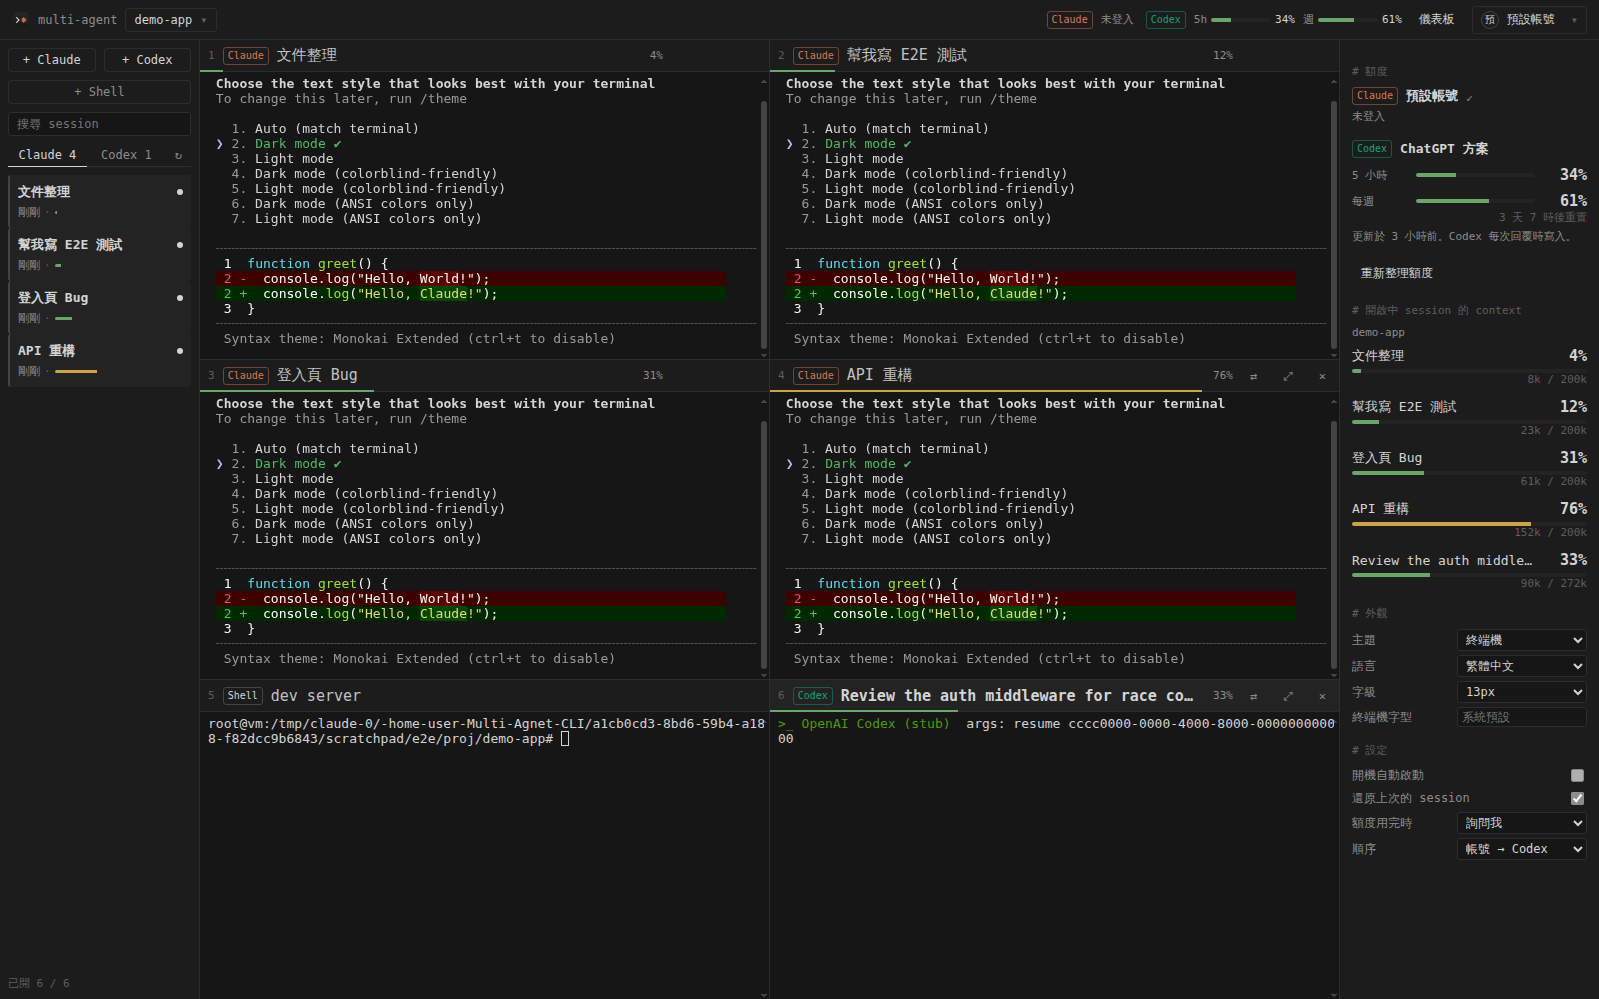
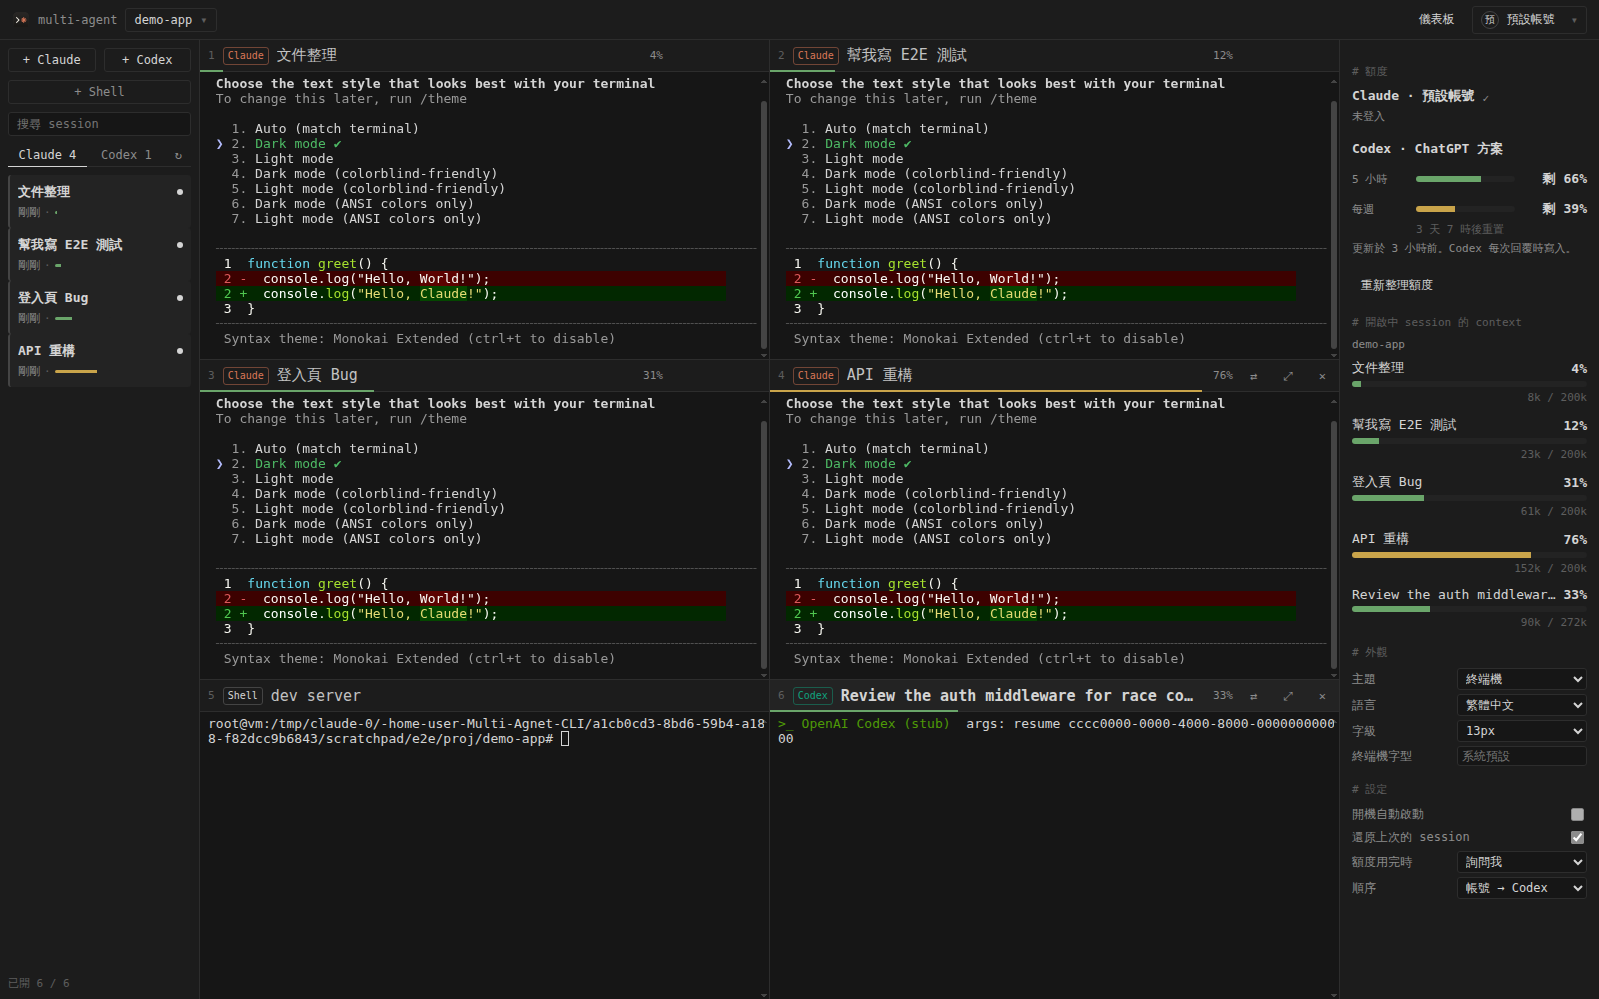
Show remaining quota in the dashboard only, colored by what is left; terminal fonts for CJK
- Remove the usage meters from the top bar; usage lives in the dashboard
- Dashboard rows show remaining quota ('66% left'), bar colored by the
  remaining amount (green >= 50%, yellow 20-50%, red < 20%); Claude/Codex
  headings are plain text instead of brand-colored tags
- Usage rows use a grid so label, bar, value and reset time line up
- Drop Microsoft JhengHei from the font stacks; CJK falls back to monospaced
  fonts (Sarasa Mono TC, Noto Sans Mono CJK TC, MingLiU on Windows)

Claude-Session: https://claude.ai/code/session_01H4MbeqU6uQkmUebYD4LS2x

diff --git a/src/renderer/app.js b/src/renderer/app.js
@@ -109,7 +109,6 @@ function applyLang() {
   if (!S.cwd) $('#projectName').textContent = t('top.project');
   layoutGridIfAny();
   renderSessionList();
-  renderMeters();
   renderDashboard();
 }
 
@@ -861,7 +860,7 @@ function showAccountMenu(anchor) {
         await api.setActiveProfile(p.id);
         await reloadProfiles();
         refreshSessions();
-        renderMeters();
+        renderDashboard();
         toast(t('profile.switched', { name: profileName(p) }), 'ok');
       },
     };
@@ -980,7 +979,6 @@ async function refreshUsage(force = false) {
   } catch {
     return;
   }
-  renderMeters();
   renderDashboard();
   const u = S.usage.claude[S.activeProfile];
   if (u && u.ok && u.fiveHour && u.fiveHour.pct >= 100) {
@@ -1002,12 +1000,6 @@ async function refreshUsage(force = false) {
   }
 }
 
-function meter(label, w) {
-  if (!w || w.pct == null) return '';
-  const tip = `${label} ${w.pct.toFixed(1)}%${fmtReset(w.resetsAt) ? ` · ${t('reset.in', { t: fmtReset(w.resetsAt) })}` : ''}`;
-  return `<div class="meter" title="${esc(tip)}">${label} ${bar(w.pct)}<b>${Math.round(w.pct)}%</b></div>`;
-}
-
 function codexWindows(rl) {
   if (!rl) return [];
   return [rl.primary, rl.secondary].filter(Boolean).map((w) => ({
@@ -1017,25 +1009,17 @@ function codexWindows(rl) {
   }));
 }
 
-function renderMeters() {
-  if (!S.usage) return;
-  const u = S.usage.claude[S.activeProfile];
-  let html = '<div class="meter-group"><span class="tag claude">Claude</span>';
-  html += u && u.ok ? meter(t('usage.5h'), u.fiveHour) + meter(t('usage.week'), u.sevenDay) : `<span class="meter">${esc(u ? t(`usage.reason.${u.reason}`) : t('usage.loading'))}</span>`;
-  html += '</div><div class="meter-group"><span class="tag codex">Codex</span>';
-  const cw = codexWindows(S.usage.codex);
-  html += cw.length ? cw.map((w) => meter(w.label, w)).join('') : `<span class="meter">${esc(t('usage.noData'))}</span>`;
-  html += '</div>';
-  $('#meters').innerHTML = html;
-}
+// 剩餘額度的顏色：剩 50% 以上綠、20–50% 黃、20% 以下紅（跟是哪個工具無關）
+const leftClass = (left) => (left < 20 ? 'bad' : left < 50 ? 'warn' : '');
 
-// 一列額度：標籤、進度條、放大的百分比；重置倒數放在下一行的最弱層級
+// 一列額度（顯示剩餘）：標籤、進度條、剩餘百分比；重置倒數在下一行，對齊進度條
 function usageRow(label, w) {
   if (!w || w.pct == null) return '';
+  const left = Math.max(0, Math.min(100, 100 - w.pct));
   const reset = fmtReset(w.resetsAt);
-  return `<div class="row"><span class="label">${esc(label)}</span>${bar(w.pct)}<span class="val">${Math.round(w.pct)}%</span></div>${
-    reset ? `<div class="reset">${esc(t('reset.in', { t: reset }))}</div>` : ''
-  }`;
+  return `<div class="urow"><span class="label">${esc(label)}</span><div class="bar ${leftClass(left)}"><i style="width:${left}%"></i></div><span class="val">${esc(
+    t('usage.left', { n: Math.round(left) }),
+  )}</span>${reset ? `<span class="reset">${esc(t('reset.in', { t: reset }))}</span>` : ''}</div>`;
 }
 
 function renderDashboard() {
@@ -1043,7 +1027,7 @@ function renderDashboard() {
   let html = '';
   for (const p of S.profiles) {
     const u = S.usage && S.usage.claude[p.id];
-    html += `<div class="dsec"><div class="head"><span class="tag claude">Claude</span><span class="name">${esc(profileName(p))}</span>${p.id === S.activeProfile ? '<span class="sub">✓</span>' : ''}</div>
+    html += `<div class="dsec"><div class="head"><span class="name">Claude · ${esc(profileName(p))}</span>${p.id === S.activeProfile ? '<span class="sub">✓</span>' : ''}</div>
       <div class="sub">${esc((p.account && p.account.email) || t('profile.notLoggedIn'))}${u && u.plan ? ` · ${esc(u.plan)}` : ''}</div>`;
     if (u && u.ok)
       html +=
@@ -1052,7 +1036,7 @@ function renderDashboard() {
     html += '</div>';
   }
   const cw = codexWindows(S.usage && S.usage.codex);
-  html += `<div class="dsec"><div class="head"><span class="tag codex">Codex</span><span class="name">${esc(t('usage.codexPlan'))}</span></div>`;
+  html += `<div class="dsec"><div class="head"><span class="name">Codex · ${esc(t('usage.codexPlan'))}</span></div>`;
   html += cw.length
     ? cw.map((w) => usageRow(w.week ? t('usage.weekLong') : w.label === '5h' ? t('usage.5hLong') : w.label, w)).join('') +
       `<div class="sub">${esc(t('usage.codexAt', { t: S.usage.codex.observedAt ? fmtAgo(S.usage.codex.observedAt) : '–' }))}</div>`
@@ -1214,7 +1198,7 @@ async function boot() {
   setInterval(pollContext, 4000);
   setInterval(refreshSessions, 30_000);
   setInterval(() => refreshUsage(), (S.settings.usageRefreshSec || 120) * 1000);
-  setInterval(renderMeters, 60_000); // 更新重置倒數
+  setInterval(renderDashboard, 60_000); // 更新重置倒數
 }
 
 boot();

diff --git a/src/renderer/styles.css b/src/renderer/styles.css
@@ -14,7 +14,7 @@
   --warn: #b7a67e;
   --bad: #b48686;
   --sel: #383838;
-  --font: ui-monospace, 'SF Mono', Menlo, Consolas, 'Cascadia Mono', 'DejaVu Sans Mono', 'PingFang TC', 'Microsoft JhengHei', monospace;
+  --font: ui-monospace, 'SF Mono', Menlo, 'Cascadia Mono', Consolas, 'DejaVu Sans Mono', 'Noto Sans Mono CJK TC', MingLiU, monospace;
   --radius: 3px;
   /* 三層字級：主要（窗格標題、清單名稱、儀表板數字）、一般（按鈕、設定）、次要（時間、說明） */
   --fs-1: 15px;
@@ -150,28 +150,6 @@ select:focus {
   place-items: center;
   font-size: 10px;
   flex-shrink: 0;
-}
-.meters {
-  display: flex;
-  gap: 12px;
-  align-items: center;
-}
-.meter-group {
-  display: flex;
-  gap: 8px;
-  align-items: center;
-}
-.meter {
-  display: flex;
-  align-items: center;
-  gap: 4px;
-  color: var(--muted);
-  font-size: 11px;
-  white-space: nowrap;
-}
-.meter b {
-  color: var(--text);
-  font-weight: 400;
 }
 .bar {
   width: 60px;
@@ -559,29 +537,38 @@ select:focus {
   font-weight: 600;
   min-width: 0;
 }
-.dsec .row {
-  display: flex;
+/* 額度列：標籤 | 進度條 | 剩餘百分比，重置倒數在第二行對齊進度條 */
+.dsec .urow {
+  display: grid;
+  grid-template-columns: 56px 1fr 64px;
+  column-gap: 8px;
+  row-gap: 4px;
   align-items: center;
-  gap: 8px;
-  margin-top: 8px;
+  margin-top: 12px;
 }
-.dsec .row .label {
-  width: 56px;
+.dsec .urow .label {
   color: var(--muted);
   font-size: var(--fs-3);
 }
-.dsec .row .bar {
-  flex: 1;
+.dsec .urow .bar {
+  width: auto;
+  height: 6px;
+  border-radius: 3px;
 }
-.dsec .val {
-  font-size: var(--fs-1);
+.dsec .urow .val {
+  font-size: var(--fs-name);
   font-weight: 600;
-  min-width: 44px;
   text-align: right;
+  white-space: nowrap;
 }
-.dsec .reset {
+.dsec .urow .reset {
+  grid-column: 2 / 4;
   color: var(--faint);
   font-size: var(--fs-3);
+}
+.dsec .val {
+  font-size: var(--fs-name);
+  font-weight: 600;
   text-align: right;
 }
 .dsec .sub {
@@ -599,6 +586,15 @@ select:focus {
 }
 .ctx-item > .bar {
   width: 100%;
+  height: 6px;
+  border-radius: 3px;
+  margin-top: 4px;
+}
+.ctx-item .reset {
+  margin-top: 4px;
+  color: var(--faint);
+  font-size: var(--fs-3);
+  text-align: right;
 }
 .sub.group {
   margin: 8px 0;

diff --git a/src/renderer/i18n.js b/src/renderer/i18n.js
@@ -130,6 +130,7 @@ const I18N = {
     'usage.codexAt': 'Updated {t}. Codex writes this on every reply.',
     'usage.codexEmpty': 'Shows up after you use Codex once.',
     'usage.refresh': 'Refresh usage',
+    'usage.left': '{n}% left',
     'usage.reason.no-credentials': 'not signed in',
     'usage.reason.token-expired': 'token expired; open any session on this account to refresh it',
     'usage.reason.token-invalid': 'token rejected; sign in again',
@@ -288,6 +289,7 @@ const I18N = {
     'usage.codexAt': '更新於 {t}。Codex 每次回覆時寫入。',
     'usage.codexEmpty': '用過一次 Codex 之後就會出現。',
     'usage.refresh': '重新整理額度',
+    'usage.left': '剩 {n}%',
     'usage.reason.no-credentials': '未登入',
     'usage.reason.token-expired': 'token 過期，在這個帳號開任一個 session 就會更新',
     'usage.reason.token-invalid': 'token 無效，請重新登入',

diff --git a/src/renderer/themes.js b/src/renderer/themes.js
@@ -80,6 +80,12 @@ function terminalFont(platform, custom) {
     win32: ['"Cascadia Mono"', 'Consolas', '"Courier New"'],
     linux: ['"DejaVu Sans Mono"', '"Ubuntu Mono"', '"Liberation Mono"'],
   }[platform] || ['Menlo', 'Consolas', '"DejaVu Sans Mono"'];
-  const cjk = ['"PingFang TC"', '"Microsoft JhengHei"', '"Noto Sans Mono CJK TC"', '"Noto Sans CJK TC"', 'monospace'];
+  // 中文也用等寬的終端機字型：Windows 是主控台用的細明體（MingLiU），不用微軟正黑體
+  const cjk = {
+    darwin: ['"PingFang TC"'],
+    win32: ['"Sarasa Mono TC"', '"Noto Sans Mono CJK TC"', 'MingLiU', '"細明體"'],
+    linux: ['"Noto Sans Mono CJK TC"', '"Sarasa Mono TC"'],
+  }[platform] || [];
+  cjk.push('monospace');
   return [custom && custom.trim() ? `"${custom.trim().replace(/"/g, '')}"` : null, 'ui-monospace', ...byPlatform, ...cjk].filter(Boolean).join(', ');
 }

diff --git a/src/renderer/index.html b/src/renderer/index.html
@@ -12,7 +12,6 @@
       <div class="brand"><img src="../../assets/icon-256.png" alt="" /><span>multi-agent</span></div>
       <button id="projectBtn" class="project-btn"><span id="projectName"></span><span class="caret">▾</span></button>
       <div class="spacer"></div>
-      <div id="meters" class="meters"></div>
       <button id="dashBtn" class="ghost" data-i18n="top.dashboard"></button>
       <button id="accountBtn" class="account-btn"><span class="avatar" id="accountAvatar"></span><span id="accountName"></span><span class="caret">▾</span></button>
     </header>

diff --git a/README.md b/README.md
@@ -14,7 +14,7 @@
 - 每個窗格是真正的終端機（node-pty + xterm.js），跑的就是你平常的 `claude` 和 `codex`。
 - 最多 6 格。版面依視窗長寬比自動排，最後一列不滿時會加寬，不會留空格。
 - 窗格上方顯示 session 名稱、Claude 或 Codex、使用的帳號，以及 context 用量（例如 `76% · 152k / 200k`）。
-- 儀表板顯示每個 Claude 帳號的 5 小時與每週額度、Codex 的 5 小時與每週額度，以及各窗格的 context。
+- 儀表板顯示每個 Claude 帳號與 Codex 的 5 小時、每週剩餘額度（依剩餘量變色：50% 以上綠、20–50% 黃、20% 以下紅），以及各窗格的 context。
 - 多個 Claude 帳號。每個帳號是一個 `CLAUDE_CONFIG_DIR`，session 歷史共用，所以可以換帳號 `--resume` 同一個 session。
 - 額度用完時提供接手選項：換另一個 Claude 帳號續跑，或產生交接文件交給 Codex。
 - 五種主題（Terminal、Graphite、Sand、Mono、Paper），整個介面使用系統終端機的等寬字型。Claude 與 Codex 標籤用它們原本的品牌色。
@@ -77,7 +77,7 @@ npm install
 
 ## 外觀
 
-儀表板的「外觀」可以選主題、字級與終端機字型。字型預設跟系統終端機一樣：macOS 用 SF Mono 或 Menlo，Windows 用 Cascadia Mono 或 Consolas，Linux 用 DejaVu Sans Mono，中文 fallback 到蘋方、微軟正黑體或 Noto Sans Mono CJK。
+儀表板的「外觀」可以選主題、字級與終端機字型。字型預設跟系統終端機一樣：macOS 用 SF Mono 或 Menlo，Windows 用 Cascadia Mono 或 Consolas，Linux 用 DejaVu Sans Mono，中文也用等寬字：Windows 依序找更紗黑體 Sarasa Mono TC、Noto Sans Mono CJK TC、主控台用的細明體，macOS 用蘋方，Linux 用 Noto Sans Mono CJK TC。想指定別的字型，填在「終端機字型」。
 
 主題只改介面的背景、文字和分隔線。窗格裡程式輸出的顏色完全照原樣顯示，16 色 ANSI 色盤沿用系統原生終端機：Windows 是 Windows Terminal 的 Campbell，macOS 是 Terminal.app，Linux 是 GNOME Terminal 的 Tango。
 

diff --git a/README.en.md b/README.en.md
@@ -14,7 +14,7 @@ If you keep several Claude Code sessions open on one project, every reboot means
 - Each pane is a real terminal (node-pty + xterm.js) running your own `claude` and `codex`.
 - Up to 6 panes. The grid follows the window's aspect ratio, and a short last row stretches so no cell is left empty.
 - Each pane header shows the session name, Claude or Codex, the account, and context usage such as `76% · 152k / 200k`.
-- A dashboard with 5-hour and weekly usage for every Claude account and for Codex, plus context for each open pane.
+- A dashboard with the remaining 5-hour and weekly quota for every Claude account and for Codex, colored by what is left (green above 50%, yellow 20–50%, red below 20%), plus context for each open pane.
 - Multiple Claude accounts. Each one is a `CLAUDE_CONFIG_DIR` with shared session history, so another account can `--resume` the same session.
 - When usage runs out, the pane offers to resume on another Claude account or to hand the work to Codex with a handoff file.
 - Five themes (Terminal, Graphite, Sand, Mono, Paper). The whole UI uses your system's terminal font, and the Claude and Codex labels keep their brand colors.
@@ -75,7 +75,7 @@ Closing a pane ends the process. The session stays on disk and can be reopened f
 
 ## Appearance
 
-The terminal font defaults to what your OS terminal uses: SF Mono or Menlo on macOS, Cascadia Mono or Consolas on Windows, DejaVu Sans Mono on Linux, with CJK fallbacks.
+The terminal font defaults to what your OS terminal uses: SF Mono or Menlo on macOS, Cascadia Mono or Consolas on Windows, DejaVu Sans Mono on Linux. Chinese text also uses monospaced fonts: Sarasa Mono TC, Noto Sans Mono CJK TC or the console font MingLiU on Windows, PingFang on macOS, Noto Sans Mono CJK TC on Linux. Set any other font in Terminal font.
 
 Themes only change the app's background, text and borders. Program output in the panes keeps its own colors, and the 16-color ANSI palette matches your OS terminal: Campbell from Windows Terminal, Terminal.app on macOS, Tango from GNOME Terminal on Linux.
 
